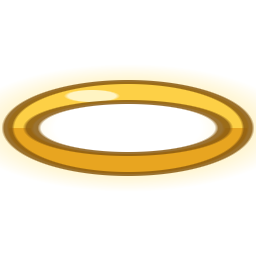
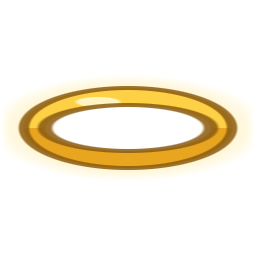
Easier onto the grind rail (wider kicker, less speed needed, a little more angle allowed); the boost ring's glow no longer runs off its picture (it showed as a yellowish box over dark ground), drawn a little bigger to stay the same size

Changed region(s): [[0.0, 0.2812, 1.0, 0.7188]]

diff --git a/Assets/Scripts/Track/TrackRides.cs b/Assets/Scripts/Track/TrackRides.cs
@@ -24,7 +24,7 @@ namespace SomeGame.Track
         const float TubeHalf = 2.3f;
         // How far off the entrance's middle a car may be (the rail's kicker is narrow), the speed it needs, and how
         // straight it must be heading (no swerving in sideways).
-        const float RailHalf = 1.1f, FlumeHalf = 1.3f, RailSpeed = 14f, FlumeSpeed = 8f, MaxEntryAngle = 22f;
+        const float RailHalf = 1.5f, FlumeHalf = 1.3f, RailSpeed = 12f, FlumeSpeed = 8f, MaxEntryAngle = 22f, RailEntryAngle = 28f;
 
         static Color Lin(float r, float g, float b, float a = 1f) { var c = new Color(r, g, b).linear; c.a = a; return c; }
         static readonly Color TubeEdge = Lin(0.32f, 0.6f, 0.82f, 0.9f), TubeMid = Lin(0.72f, 0.9f, 1f, 0.42f), TubeCore = Lin(0.88f, 0.97f, 1f, 0.22f),
@@ -290,7 +290,7 @@ namespace SomeGame.Track
                     float window = (rail ? RailHalf : FlumeHalf) + (rival ? 0.9f : 0f);
                     if (to < -0.5f || to > 1.5f || Mathf.Abs(lat - ride.Data.lateral) > window) continue;
                     if (speed < (rail ? RailSpeed : FlumeSpeed) * (rival ? 0.8f : 1f)) continue;
-                    if (Vector2.Angle(car.Body.linearVelocity, path.TangentAt(d)) > MaxEntryAngle * (rival ? 1.8f : 1f)) continue;
+                    if (Vector2.Angle(car.Body.linearVelocity, path.TangentAt(d)) > (rail ? RailEntryAngle : MaxEntryAngle) * (rival ? 1.8f : 1f)) continue;
                     BoardRide(car, ride);
                     break;
                 }

diff --git a/Assets/Scripts/Editor/ArtGenerator.Lantern.cs b/Assets/Scripts/Editor/ArtGenerator.Lantern.cs
@@ -73,12 +73,14 @@ namespace SomeGame.EditorTools
         static Color BoostRing(float x, float y)
         {
             Color c = new(0, 0, 0, 0);
-            float outer = Ellipse(x, y, 128, 128, 120, 46), inner = Ellipse(x, y, 128, 128, 96, 26);
+            // Kept well inside the picture, so the glow fades out before its edges (no cut-off box round it).
+            float outer = Ellipse(x, y, 128, 128, 104, 40), inner = Ellipse(x, y, 128, 128, 83, 23);
             float hoop = Mathf.Max(outer, -inner);
-            c = Over(c, new Color(1f, 0.85f, 0.3f, 0.35f), Mathf.Clamp01(1f - Mathf.Abs(outer) / 18f) * 0.8f);
+            float edge = Mathf.Clamp01(Mathf.Min(Mathf.Min(x, 256f - x), Mathf.Min(y, 256f - y)) / 8f);
+            c = Over(c, new Color(1f, 0.85f, 0.3f, 0.35f), Mathf.Clamp01(1f - Mathf.Abs(outer) / 14f) * 0.8f * edge);
             c = Over(c, Hex("E8A520"), Fill(hoop));
             c = Over(c, Hex("FFD54A"), Fill(Mathf.Max(hoop, -(y - 128f))) * 0.9f);
-            c = Over(c, Hex("FFF4C2"), Fill(Ellipse(x, y, 92, 160, 26, 6)));
+            c = Over(c, Hex("FFF4C2"), Fill(Ellipse(x, y, 98, 154, 22, 5)));
             c = Over(c, Hex("8A5A10"), Stroke(hoop, 4f) * 0.85f);
             return c;
         }

diff --git a/Assets/Scripts/Track/TrackJourney.cs b/Assets/Scripts/Track/TrackJourney.cs
@@ -627,8 +627,8 @@ namespace SomeGame.Track
             var path = track.Path;
             Vector2 at = path.PointAt(ring.distance) + path.NormalAt(ring.distance) * ring.lateral, along = path.TangentAt(ring.distance);
             // Stands across the road: its long axis across, so the cars fly through it.
-            var sr = Sprite("BoostRing", ringSprite, transform, at, 5.2f, Mathf.Atan2(along.y, along.x) * Mathf.Rad2Deg - 90f, 36);
-            var shadow = Sprite("BoostRingShadow", ringSprite, transform, at + new Vector2(1.6f, -2.2f), 5.2f, Mathf.Atan2(along.y, along.x) * Mathf.Rad2Deg - 90f, 2);
+            var sr = Sprite("BoostRing", ringSprite, transform, at, 6f, Mathf.Atan2(along.y, along.x) * Mathf.Rad2Deg - 90f, 36);
+            var shadow = Sprite("BoostRingShadow", ringSprite, transform, at + new Vector2(1.6f, -2.2f), 6f, Mathf.Atan2(along.y, along.x) * Mathf.Rad2Deg - 90f, 2);
             shadow.color = new Color(0f, 0f, 0f, 0.25f);
             _rings.Add(new RingView { T = sr.transform, Sprite = sr, Scale = sr.transform.localScale.x });
         }
